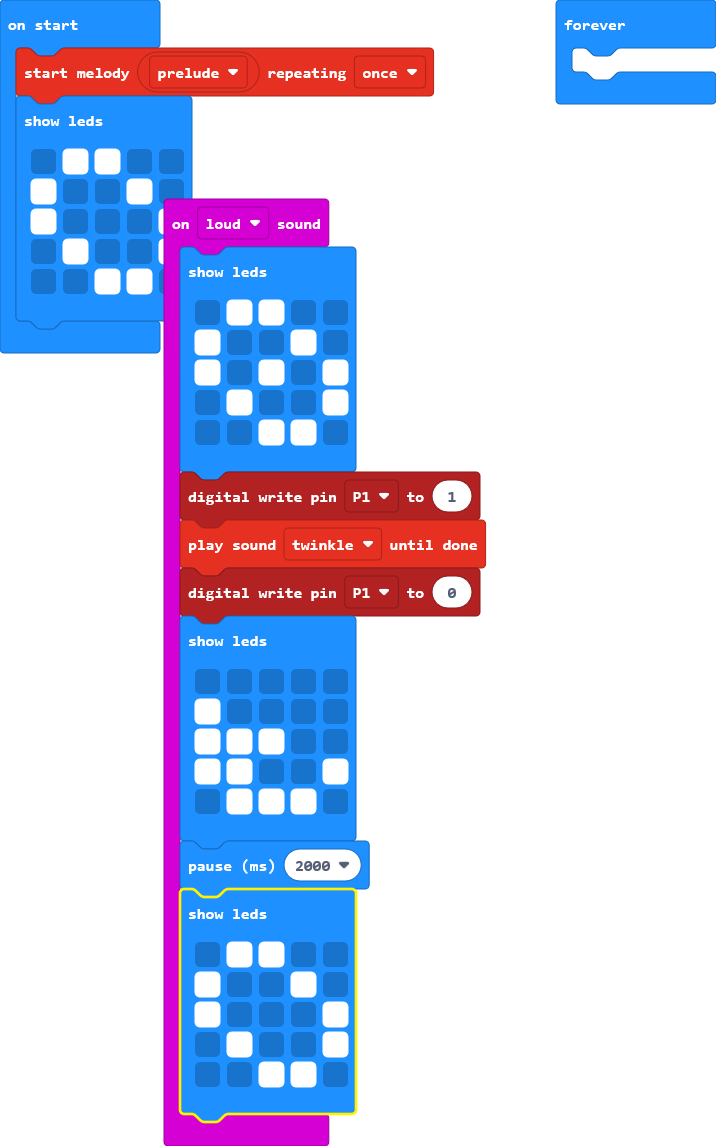
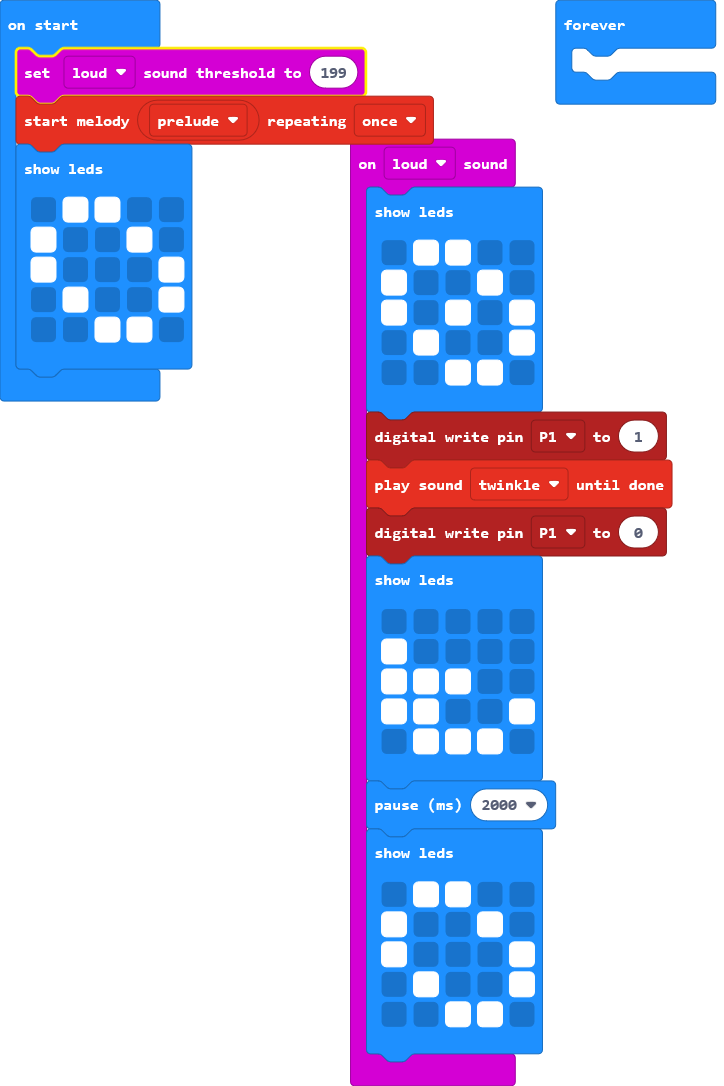
Update main.blocks, main.ts

diff --git a/main.ts b/main.ts
@@ -25,6 +25,7 @@ input.onSound(DetectedSound.Loud, function () {
         . . # # .
         `)
 })
+input.setSoundThreshold(SoundThreshold.Loud, 199)
 music.startMelody(music.builtInMelody(Melodies.Prelude), MelodyOptions.Once)
 basic.showLeds(`
     . # # . .
